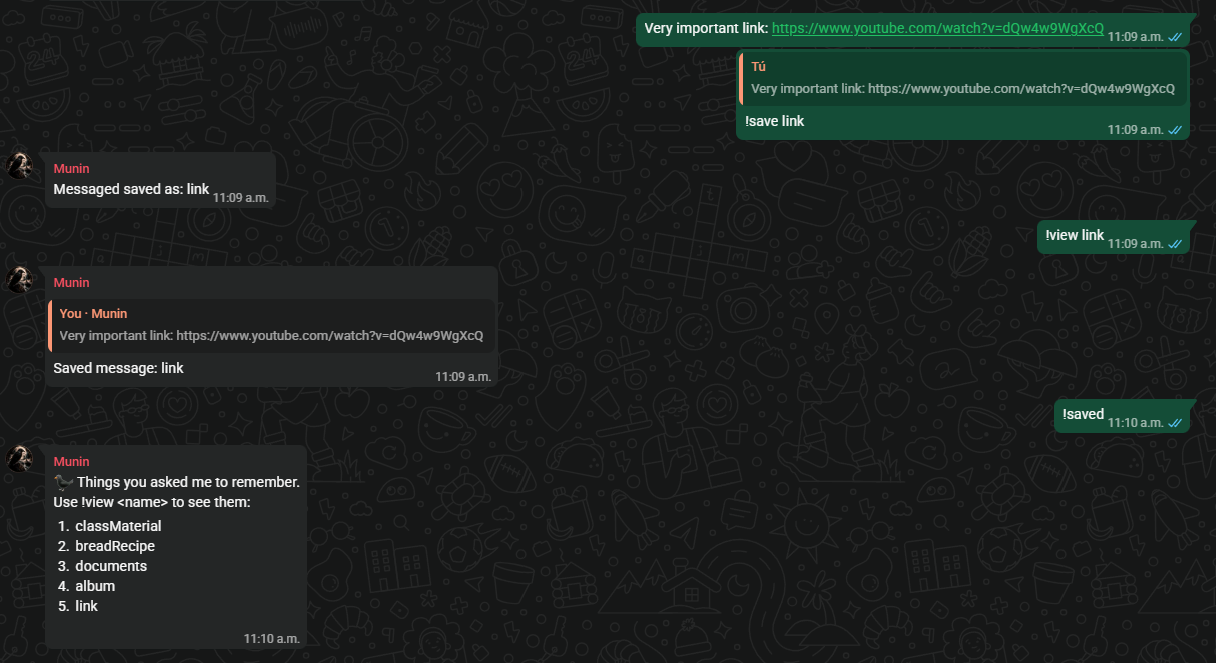
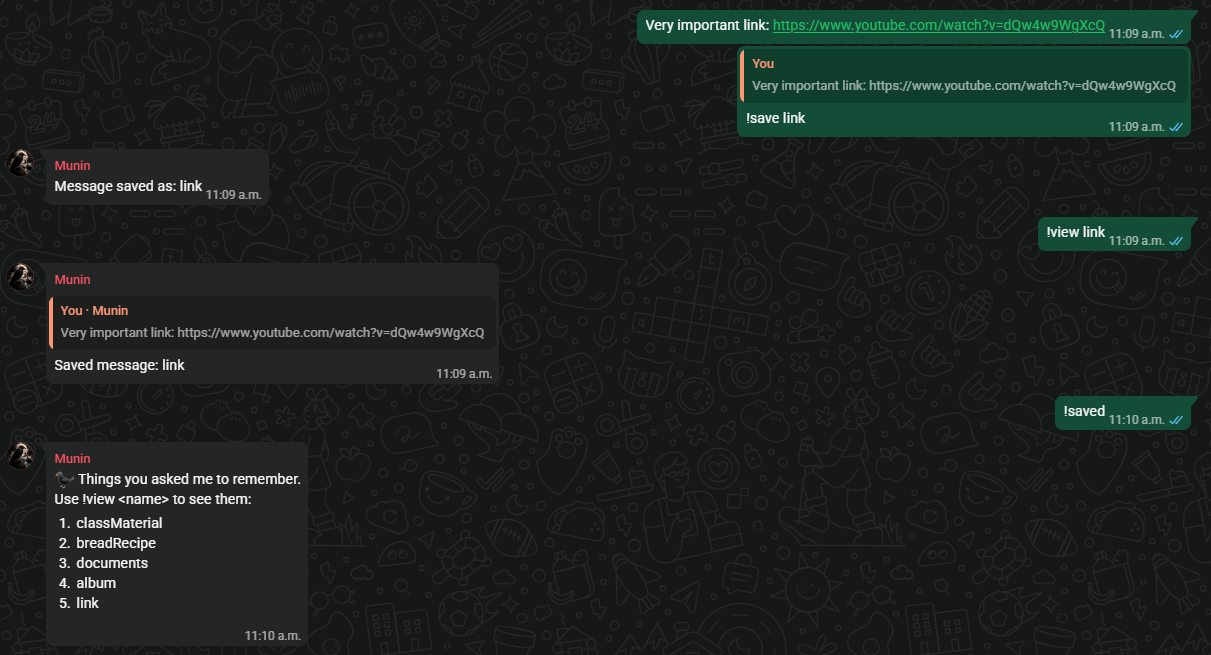
fix: update example GLOBAL_ADMIN_ID in adminConfig.js docs: update README with additional context about Munin's features

diff --git a/src/config/adminConfig.js b/src/config/adminConfig.js
@@ -1,6 +1,6 @@
 require("./envLoader");
 
-// Set GLOBAL_ADMIN_ID to your WhatsApp ID (for example, "5215551234567@c.us").
+// Set GLOBAL_ADMIN_ID to your WhatsApp ID (for example, "1234567898765@c.us").
 // This admin has access in every group.
 const GLOBAL_ADMIN_ID = process.env.GLOBAL_ADMIN_ID?.trim() || "";
 

diff --git a/README.md b/README.md
@@ -4,9 +4,15 @@
 
 # Munin 🐦⬛
 
-<img src="docs/landed.PNG" alt="Munin help menu" width="300">
+<a href="docs/landed.PNG"><img src="docs/landed.PNG" alt="Munin help menu" width="300"></a>
 
-Munin is an AI-powered WhatsApp group assistant built with Node.js. Inspired by **Muninn**, the raven of memory and messanger of Odin from Norse mythology, Munin can join group conversations, remember and retrieve important messages, understand natural language requests, and handle useful commands such as reminders all while maintaining its own witty, raven-inspired personality. Munin can also liven up a group chat with fun features like trivia, image generation, per-group custom commands and a quest to collect its ultra rare feathers.
+Munin is an AI-powered WhatsApp group assistant built with Node.js. Inspired by **Muninn**, the raven of memory and messanger of Odin from Norse mythology, Munin can join group conversations, remember and retrieve important messages, understand natural language requests, and handle useful commands all while maintaining its own witty, raven-inspired personality. Munin can also liven up a group chat with fun features like trivia, image generation, per-group custom commands and a quest to collect its ultra rare feathers.
+
+Unlike general-purpose assistants like Meta AI, Munin lives within the group: remembering context, managing reminders and alerts, saving important messages, bringing chaos to the chat with games and other interactive features, and performing actions through fully customizable tools.
+
+Not just a companion you can talk to, but one that can be tailored specifically for your group.
+
+_This project uses whatsapp-web.js, an unofficial WhatsApp Web automation approach rather than an official WhatsApp bot API, and is not affiliated with WhatsApp/Meta in any way._
 
 ---
 
